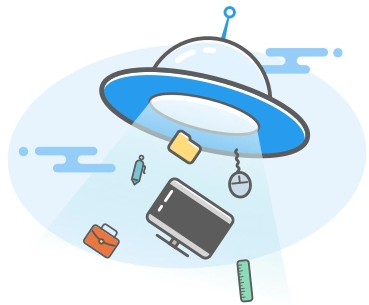
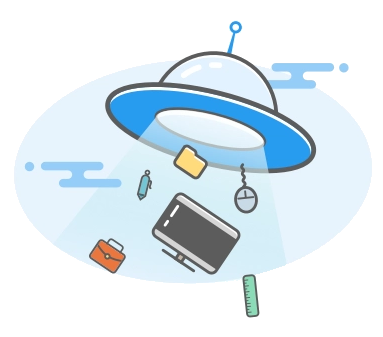
Transparent image and font changes

diff --git a/index.html b/index.html
@@ -8,14 +8,14 @@
     <title>UFO</title>
 </head>
 
-<body style="background-color: white;">
-    <main style="display: inline-block; width: 50%; margin-left: 25%; margin-top: 10%;">
-        <div style="background-color: yellow; width: 30%; float: left; margin-top: 50px;">
-            <h1 style="font-size: 70px; color: blue; ">404</h1>
-            <p style="font-size: 30px; color: black; text-transform: uppercase; font-weight: bold;">Page not found</p>
-            <a style="" href="">Go to home</a>
+<body>
+    <main style="display: inline-block; width: 70%; margin-left: 15%; margin-top: 5%;">
+        <div style="width: 30%; float: left; margin-top: 200px;">
+            <h1 style="font-size: 70px; color: blue; margin: 0; font-family: Verdana, Geneva, Tahoma, sans-serif;">404</h1>
+            <p style="font-size: 30px; color: black; margin: 0; font-family: Verdana, Geneva, Tahoma, sans-serif; text-transform: uppercase; font-weight: bold;">Page not found</p>
+            <a style="font-family: Verdana, Geneva, Tahoma, sans-serif; text-decoration: none; color: blue; border: 2px solid blue; padding: 10px; padding-left: 30px; padding-right: 30px; margin-top: 15px; display: inline-block; border-radius: 20px;" href="">Go to home</a>
         </div>
-        <img style="background-color: red; width: 60%; float: left; margin-left: 10%;" src="./ufo.png" alt="UFO lekste">
+        <img style="width: 60%; float: left; margin-left: 10%;" src="./ufo.png" alt="UFO lekste">
     </main>
 </body>
 
